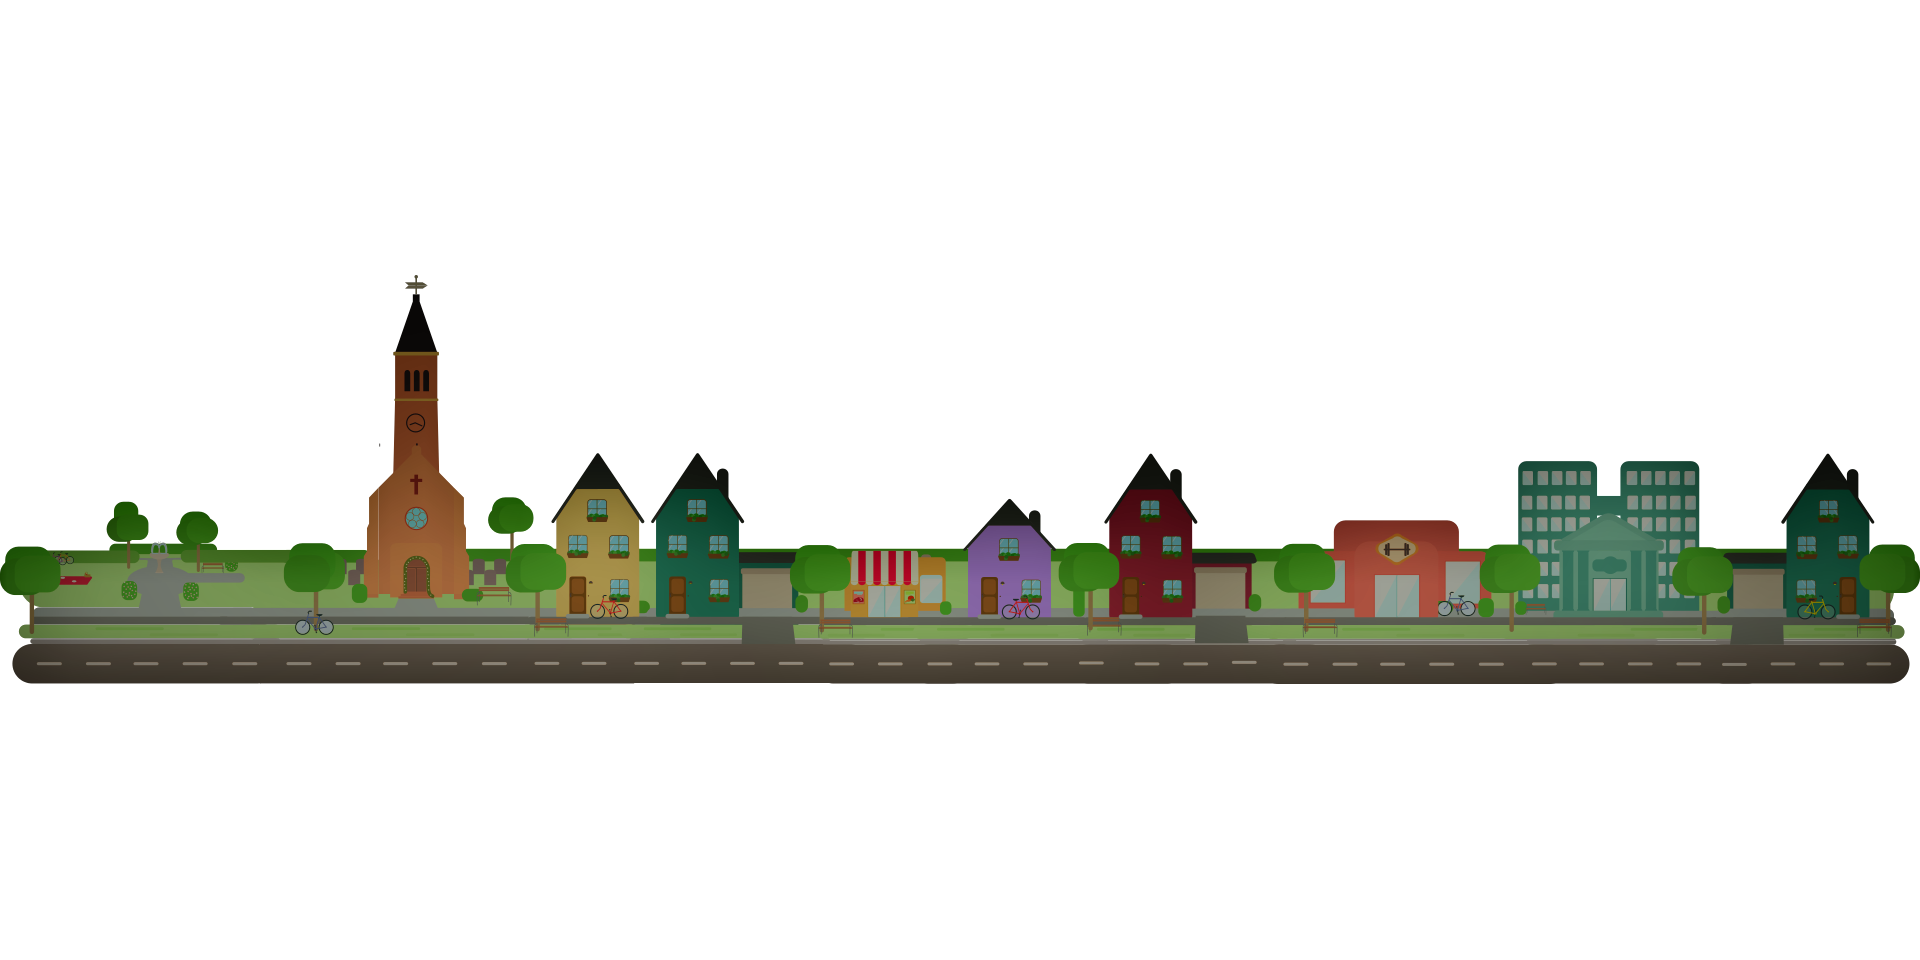
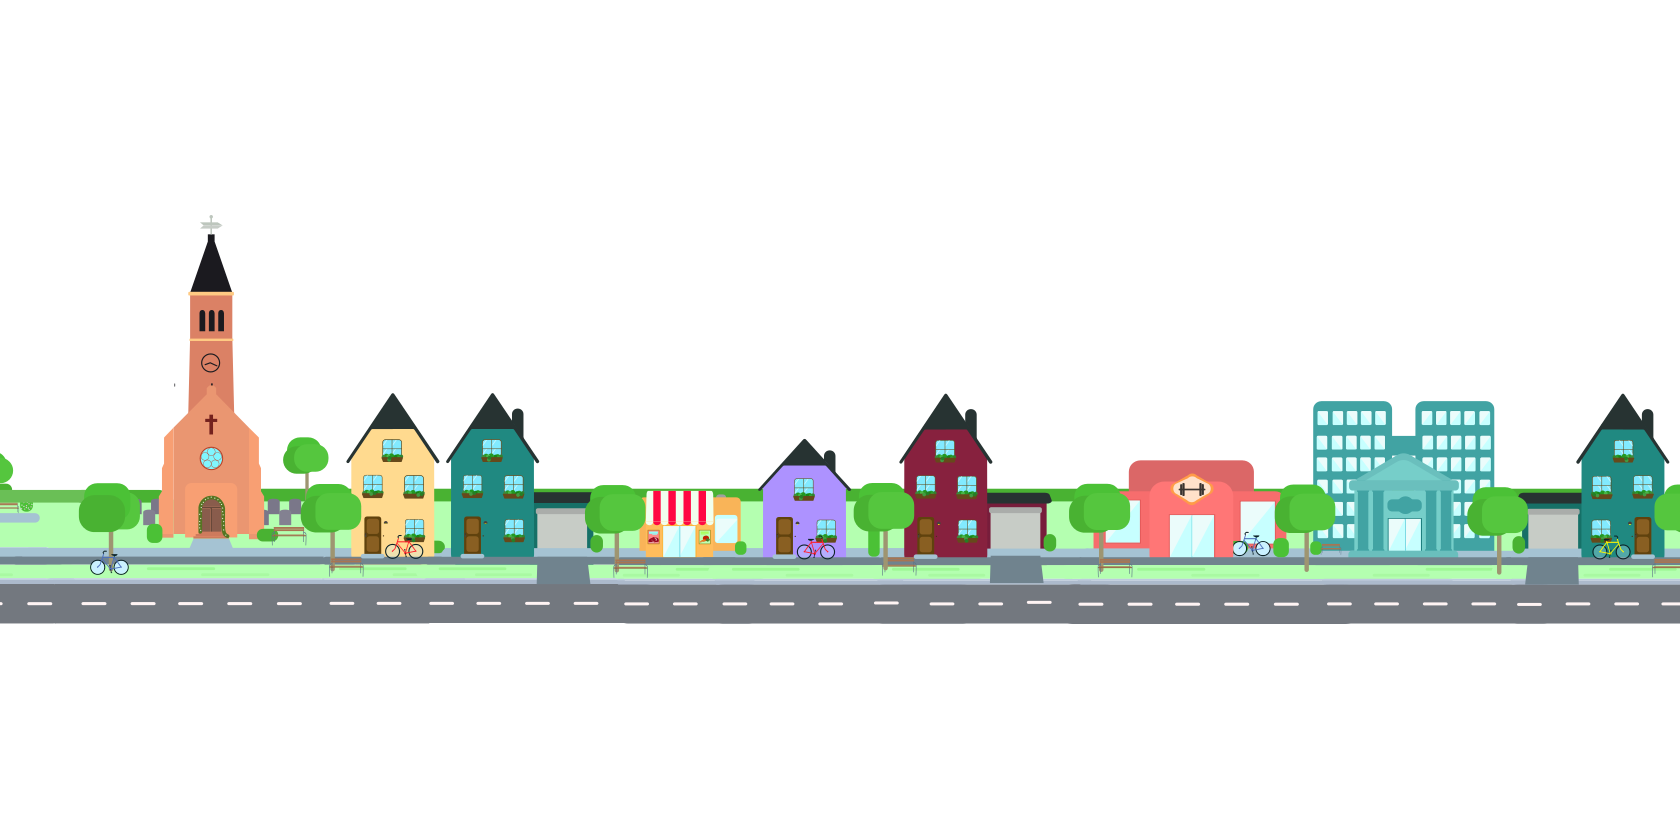
home.blade css

Changed region(s): [[0.0, 0.2786, 1.0, 0.7429]]

diff --git a/public/css/style.css b/public/css/style.css
@@ -2,7 +2,7 @@
 *Police
 **********************/
 @import url('https://fonts.googleapis.com/css?family=Lobster&display=swap');
-
+@import url('https://fonts.googleapis.com/css?family=Quicksand:700&display=swap');
 /**********************
 *Home.blade
 **********************/
@@ -12,6 +12,7 @@
     padding-top:20px;
     padding-bottom:20px;
     margin-bottom:20px;
+    font-family: 'Quicksand', sans-serif;
    
 }
 
@@ -33,18 +34,38 @@ span.citation{
     font-size:0.45em;
 }
 
-.resume{
+.resume, .connexion{
     color:rgb(241, 82, 49);
     font-size:1.5em;
     font-family: 'Lobster', cursive;
 }
+
+a{
+    color:rgb(3, 95, 178);
+    font-family: 'Quicksand', sans-serif;
+    text-decoration: none;
+}
+
+a:hover{
+    text-decoration: none;
+    color:rgb(241, 82, 49);
+}
+
+.dejainscrit{
+    color:rgb(3, 95, 178);
+    padding-top:10px;
+}
+
 /*************************
 *App.blade
 *************************/
-
 body{
-    background: url(images/city2.png) 0 0 no-repeat;
- 
-    background-position:center top;
-    z-index:-1;
+	background:url(images/city2.png) bottom;
+	height:100px;
+	width:100%;
+    position: relative;
+}
+
+main{
+   margin:0;
 }

diff --git a/resources/views/home.blade.php b/resources/views/home.blade.php
@@ -13,12 +13,13 @@
             <br>Pas d'argent, ni de temps, juste aider son prochain! (son voisin...;-)</p>
         </div>
     
-        <div class="col-md-6">
+        <div class="connexion col-md-6">
             <p>Aujourd'hui, il y a {{ $user_count }} voisins inscrits dans toute la France.
             <br>Si tu veux savoir combien habitent tout près de chez toi, rejoins-nous !</p>
             
             <button><a href="/register">Inscris-toi !</a></button>
-            <p>Déjà inscrit ? <a href="/login">Connecte-toi !</a></p>
+            
+            <p class="dejainscrit">Déjà inscrit ? <a href="/login">Connecte-toi !</a></p>
         </div>
     </div>
 </div>

diff --git a/resources/views/layouts/app.blade.php b/resources/views/layouts/app.blade.php
@@ -20,6 +20,7 @@
     <link href="{{ asset('css/app.css') }}" rel="stylesheet">
     <link href="{{ asset('css/style.css') }}" rel="stylesheet">
 </head>
+
 <body>
     <div id="app">
         <nav class="navbar navbar-expand-md navbar-light bg-white shadow-sm">
@@ -81,9 +82,11 @@
             </div>
         </nav>
 
-        <main class="py-4">
+</div>
+
+        <main class="py-6">
             @yield('content')
         </main>
-    </div>
+    
 </body>
 </html>
